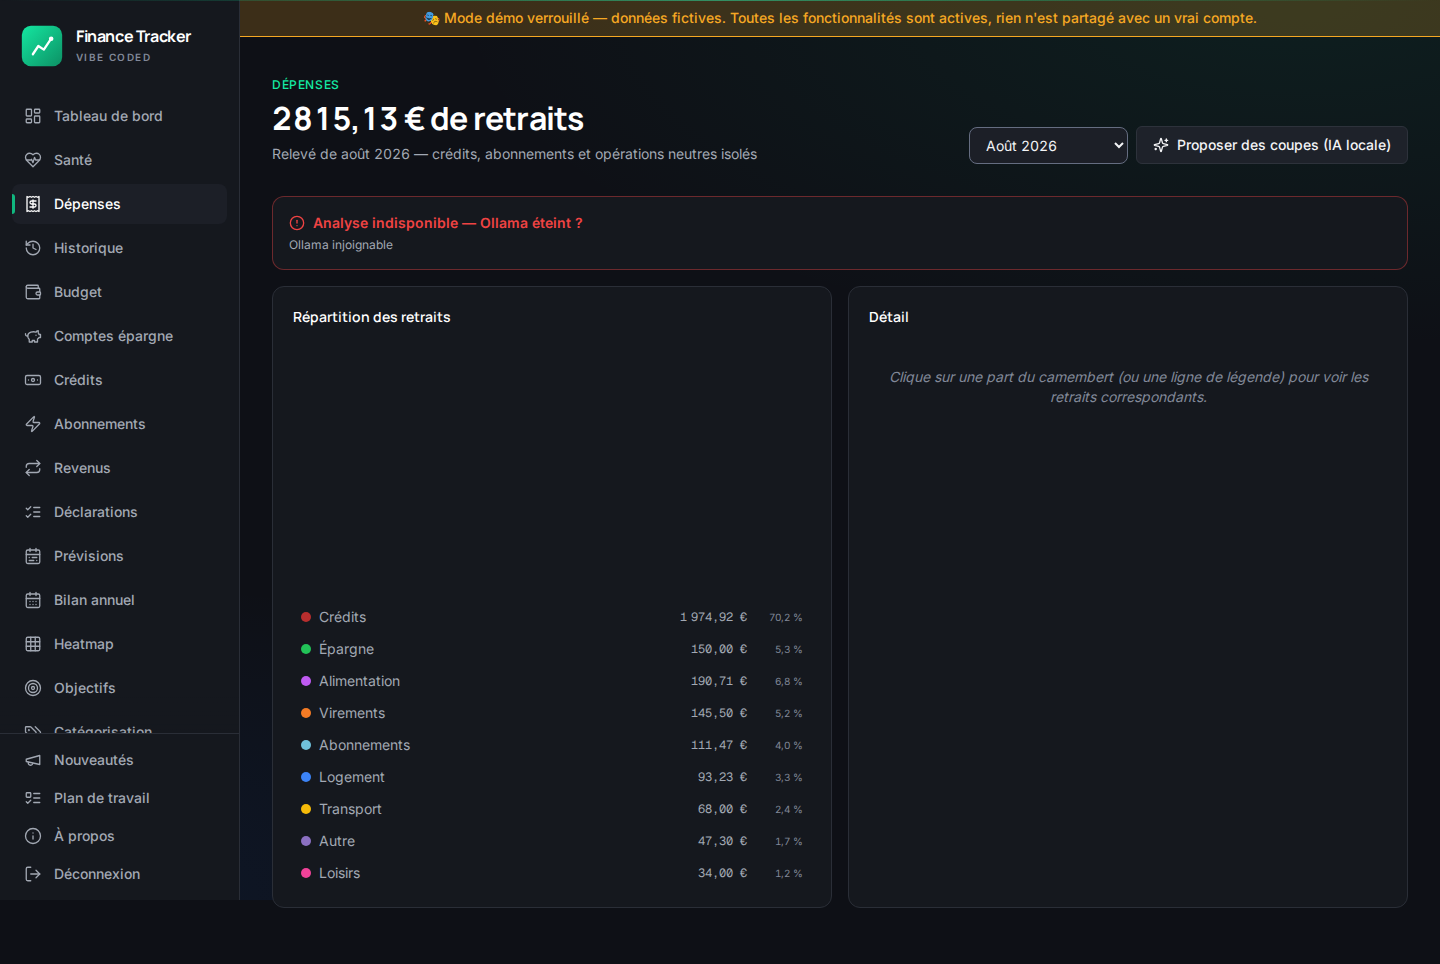
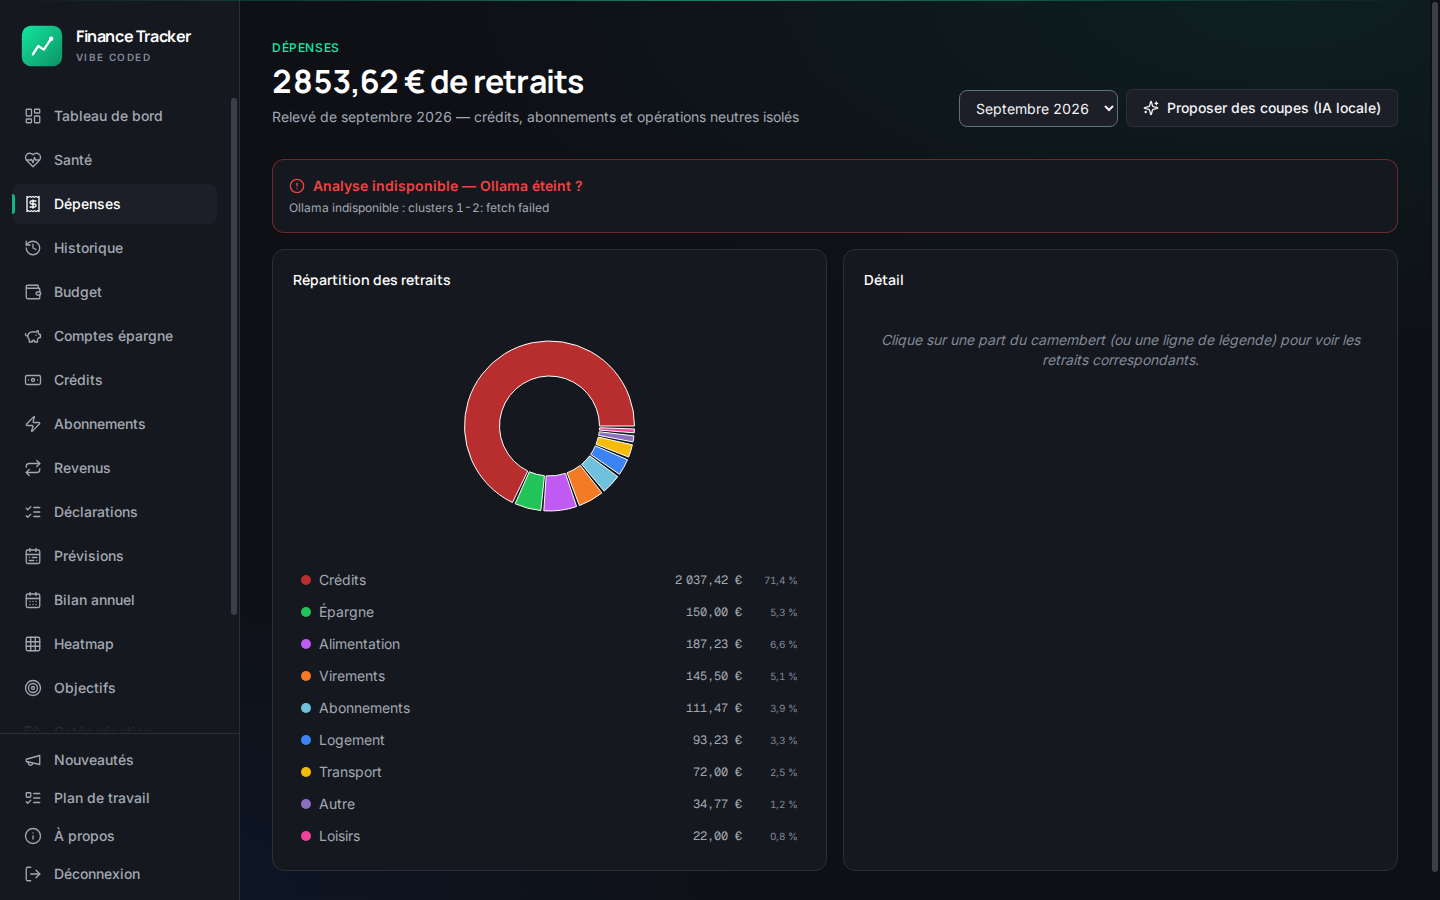
feat(L161): Nouveautés — démo sans analyse IA, capture d'erreur refaite après l'animation; README

diff --git a/frontend/public/nouveautes-data/index.html b/frontend/public/nouveautes-data/index.html
@@ -20,8 +20,17 @@ code { font-size: 13px; padding: 1px 4px; border-radius: 4px; background: var(--
 </style>
 </head>
 <body>
-<header><h1>finance-tracker — nouveautés</h1><p class="meta">Généré le 2026-10-28 19:50 par cadence</p></header>
+<header><h1>finance-tracker — nouveautés</h1><p class="meta">Généré le 2026-10-28 21:37 par cadence</p></header>
 <main>
+<article id="2026-10-28-depenses-en-demo-la-page-dit-que-l-analyse-ia-n-est-pas-disp">
+  <h2>Dépenses : en démo, la page dit que l'analyse IA n'est pas disponible</h2>
+  <p class="meta"><time datetime="2026-10-28">2026-10-28</time> · L161</p>
+  <p>Sur la démo en ligne, le bouton « Proposer des coupes (IA locale) » est désormais grisé, et une note sous le titre explique pourquoi : l'analyse par IA locale n'est pas disponible en démo, elle tourne sur le PC de Sylvain. Avant, le bouton se laissait cliquer puis répondait « écritures désactivées », sans explication. Le reste de la page (camembert, légende, détail) fonctionne comme avant.</p>
+<p>La capture de la page Dépenses avec le message d'analyse indisponible a aussi été refaite : elle montre maintenant le camembert complet, et non plus un anneau vide.</p>
+  <a href="captures/depenses-demo-ia-indisponible-1440.png"><img src="captures/depenses-demo-ia-indisponible-1440.png" alt="Dépenses en démo à 1440 px : bouton « Proposer des coupes » grisé et note disant que l'analyse par IA locale n'est pas disponible en démo" loading="lazy"></a>
+  <a href="captures/depenses-demo-ia-indisponible-390.png"><img src="captures/depenses-demo-ia-indisponible-390.png" alt="Dépenses en démo à 390 px : même bouton grisé et même note, sous le choix du mois" loading="lazy"></a>
+  <a href="captures/depenses-analyse-erreur-1440.png"><img src="captures/depenses-analyse-erreur-1440.png" alt="Dépenses à 1440 px : message « Analyse indisponible — Ollama éteint ? » au-dessus du camembert, entièrement dessiné" loading="lazy"></a>
+</article>
 <article id="2026-10-28-depenses-erreurs-dites-sur-la-page-mois-en-toutes-lettres">
   <h2>Dépenses : erreurs dites sur la page, mois en toutes lettres</h2>
   <p class="meta"><time datetime="2026-10-28">2026-10-28</time> · L38</p>

diff --git a/README.md b/README.md
@@ -84,6 +84,7 @@ Le rôle de Claude : poser le code, expliquer, itérer.
 - **Crédits : dates en français** (L137, `frontend/src/components/loans/{closed-card,suspicious-modal}.tsx`) — « Dernière mensualité » (carte d'un crédit terminé) et « dernière » (fenêtre Suspects) passent par `formatDate` (jj/mm/aaaa) au lieu de la date ISO brute. Test : `components/loans/loans-dates-fr.test.tsx` (R1–R2).
 - **Crédits, carte N× : dates en français** (L141, `frontend/src/components/loans/installment-card.tsx`) — « signé », la liste des échéances et l'info-bulle des pastilles passent par `formatDate` (jj/mm/aaaa) au lieu de la date ISO brute. Test : `components/loans/installment-card-dates-fr.test.tsx` (R1–R3).
 - **Dépenses : revue UX de `/expenses`** (L38, `routes/expenses.tsx`) — le mois se lit en toutes lettres (menu « Septembre 2026 », sous-titre « Relevé de septembre 2026 », la valeur envoyée reste `YYYY-MM`) ; un chargement en échec affiche « Impossible de charger les dépenses » + **Réessayer** (jamais « Aucun relevé », le menu du mois reste) ; l'échec de « Proposer des coupes » s'affiche dans la page (`role=alert`, Ollama éteint pour un 502) au lieu d'un `alert()`, et l'attente est annoncée (`role=status`, « 1 à 3 minutes ») ; les lignes de légende portent `aria-pressed` ; un mois à 0 € de retraits affiche 0,0 % (jamais NaN) ; les libellés tronqués ont un `title` ; cartes `min-w-0` et libellé borné à 140 px sous 640 px : plus de défilement horizontal à 390 px. Tests : `routes/expenses-ux.test.tsx` R1–R8.
+- **Dépenses en démo forcée** (L161, `routes/expenses.tsx`) — « Proposer des coupes » est désactivé (`disabled`, `aria-describedby`) et une note visible explique que l'analyse par IA locale (Ollama) n'est pas disponible en démo ; le garde `DemoWriteGuard` répondait sinon 403 « écritures désactivées » alors que le bandeau annonce « Toutes les fonctionnalités sont actives ». Tests : `routes/expenses-ux.test.tsx` R9.
 - **Menu du mois de `/expenses` nommé et stable** (L84) — le `<select>` porte `aria-label="Mois du relevé"` (un lecteur d'écran dit ce qu'il choisit) ; changer de mois garde la page affichée (`placeholderData: keepPreviousData`) donc le focus reste sur le select. Tests : `routes/expenses.test.tsx`.
 - **Menu du mois de `/expenses` mieux délimité** (L83) — le `<select>` du mois (seul contrôle de formulaire hors `.input` à garder `border-border`, 1,31:1) emploie lui aussi `--input-border`. Tests : `contrast.test.ts` R6 (aucun `select`/`input`/`textarea` ne porte `border-border`) et R7.
 - **Historique et détail des relevés accessibles** (L23) — la liste de `/history` est une liste `ul/li` dont les colonnes crédits, débits et score portent un sous-libellé (« score /100 ») comme net et solde, icônes masquées aux lecteurs d'écran ; le champ de recherche a un nom accessible (« Rechercher un relevé »). Le détail d'un relevé porte un titre de niveau 2 par section, ses transactions forment une liste `ul/li` nommée et atteignable au clavier (cadre défilant de `min(640px, 70vh)` seulement dès `lg` ; à plat en dessous), les filtres Tout/Crédit/Débit et les lignes de répartition portent `aria-pressed`, le compteur « N / M transactions » est un `role="status"`, le champ « Filtrer les transactions » est nommé, et l'explication du score s'affiche en entier sous le cercle. Les puces de catégorie utilisent `CATEGORY_TEXT_COLOR` (`tx-row.tsx`), éclaircie pour tenir 4,5:1 sur le fond réel de la puce (teinte `color-mix` de 12,5 % de la couleur de catégorie, composée sur le fond des lignes — L80, le test de contraste mesure ce fond rendu) ; `CATEGORY_COLOR` reste celle des graphiques. Tests : `history.test.tsx`, `statement-detail.test.tsx`, `tx-row.test.tsx`.

diff --git a/docs/nouveautes/2026-10-28-depenses-en-demo-la-page-dit-que-l-analyse-ia-n-est-pas-disp.md b/docs/nouveautes/2026-10-28-depenses-en-demo-la-page-dit-que-l-analyse-ia-n-est-pas-disp.md
@@ -1,0 +1,13 @@
+---
+title: "Dépenses : en démo, la page dit que l'analyse IA n'est pas disponible"
+date: 2026-10-28
+created: 2026-10-28T21:36+01:00
+lots: [L161]
+captures:
+  - { file: captures/depenses-demo-ia-indisponible-1440.png, alt: "Dépenses en démo à 1440 px : bouton « Proposer des coupes » grisé et note disant que l'analyse par IA locale n'est pas disponible en démo" }
+  - { file: captures/depenses-demo-ia-indisponible-390.png, alt: "Dépenses en démo à 390 px : même bouton grisé et même note, sous le choix du mois" }
+  - { file: captures/depenses-analyse-erreur-1440.png, alt: "Dépenses à 1440 px : message « Analyse indisponible — Ollama éteint ? » au-dessus du camembert, entièrement dessiné" }
+---
+Sur la démo en ligne, le bouton « Proposer des coupes (IA locale) » est désormais grisé, et une note sous le titre explique pourquoi : l'analyse par IA locale n'est pas disponible en démo, elle tourne sur le PC de Sylvain. Avant, le bouton se laissait cliquer puis répondait « écritures désactivées », sans explication. Le reste de la page (camembert, légende, détail) fonctionne comme avant.
+
+La capture de la page Dépenses avec le message d'analyse indisponible a aussi été refaite : elle montre maintenant le camembert complet, et non plus un anneau vide.
